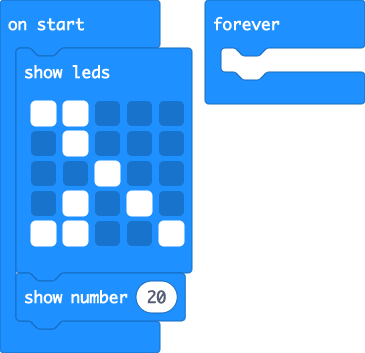
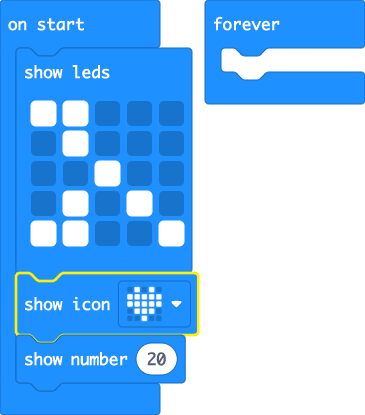
Added a heart

Changed region(s): [[0.0, 0.0312, 0.5726, 0.9348], [0.5425, 0.0312, 1.0, 0.3116]]

diff --git a/main.ts b/main.ts
@@ -5,6 +5,7 @@ basic.showLeds(`
     . # . # .
     # # . . #
     `)
+basic.showIcon(IconNames.Heart)
 basic.showNumber(20)
 basic.forever(function () {
 	
